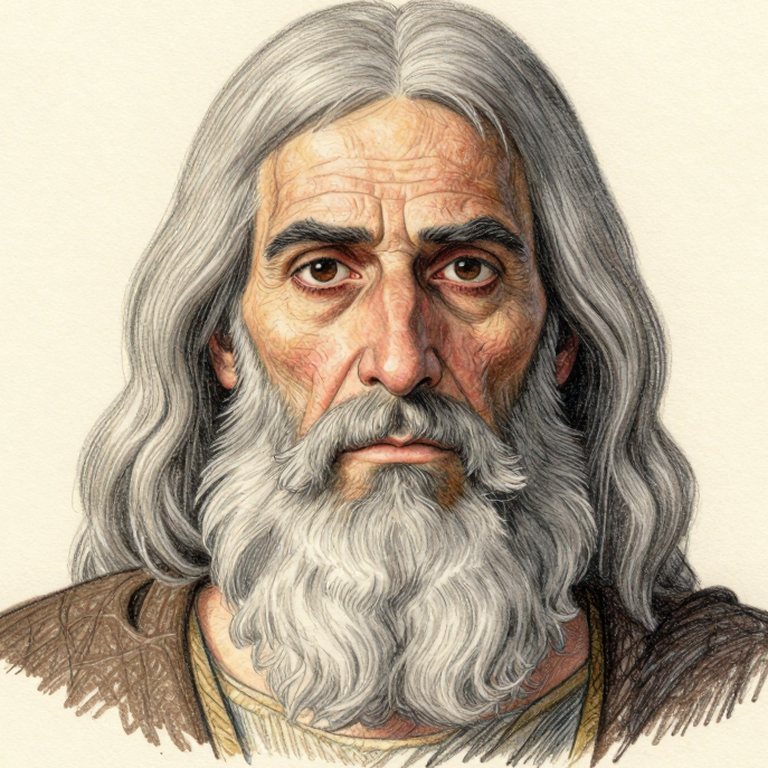
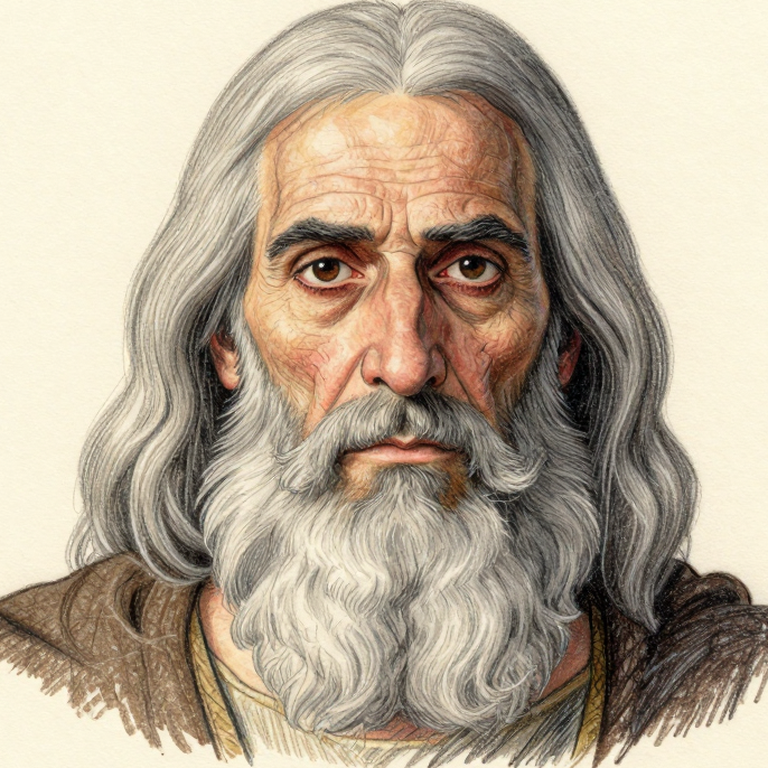
feat(canon): task 446 사람 판정 반영 — saul-elder 정본 s42 · saul-old 정본 s23(v4) · spec.cast-canon-face 38/38 회복
- 기계 고름(s11·s303)과 사람 답이 2/2 갈림 — 노트에 기록
- 재검: 전 규칙 통과 명세 3→5/38 · 승인 그림 3/15(기브아 창 s7 명세 바뀜 낡음 그대로)

Claude-Session: https://claude.ai/code/session_012hBPKFwr9raj2757bWq1Lv

Changed region(s): [[0.0, 0.0, 1.0, 1.0], [0.4062, 0.0, 0.4375, 0.0312]]

diff --git a/scripts/canon/notes/RECHECK.md b/scripts/canon/notes/RECHECK.md
@@ -25,7 +25,7 @@
 | `spec.cast-age-band` | spec | all | 38 | 0 | 0 | 100% |
 | `spec.cast-age-word` | spec | all | 38 | 0 | 0 | 100% |
 | `spec.cast-headwear` | spec | all | 38 | 0 | 0 | 100% |
-| `spec.cast-canon-face` | spec | all | 32 | 6 | 0 | 84% |
+| `spec.cast-canon-face` | spec | all | 38 | 0 | 0 | 100% |
 | `spec.lexicon-link` | spec | all | 16 | 3 | 19 | 84% |
 | `derive.no-hand-prompt` | derive | all | 38 | 0 | 0 | 100% |
 | `derive.no-bare-head` | derive | all | 38 | 0 | 0 | 100% |
@@ -64,15 +64,15 @@
 
 폐기 규칙(재검·통과율에서 뺌): `derive.clip-77-tokens` — 2026-10-22 사람 결정 — SDXL 단계별 경로 전용, 지금 생성 경로는 derive.512-tokens가 잼 · `generate.pose-throw-geometry` — 2026-10-23 d3 — 한 장(c14 s5) 근거로 만든 규칙: d1 「달리는 자세」·d2 「늘어진 팔」로 반증, c10 뼈대가 묶음 기록상 가장 좋음(던진 몸짓 3/8). 결함을 규칙으로 옮기기 전에 같은 조건에서 맞게 나온 적이 있는지 기록부터 볼 것 · `generate.pose-only-control` — 2026-10-23 g2e — 진단은 맞음(뼈대만이면 몸짓이 살아 다윗 숙임·사울 기욺)이나 맞바꿈: 몸 덩어리·벽 자리·수금 모양을 잃고 액자(g1e 다수결 틀림 6 · g2e 15 vs 섞은 f6e3 2). 깊이+뼈대 섞기 유지, make_pose_only·duck_low는 남김 · `generate.spear-two-thirds` — 2026-10-23 m5 — generate.flight-position(명세 칸 guide.flight + 사전 크기)로 일반화(사람 「지적한거 그대로 일회성으로 쓰지말고 규칙화」)
 
-**전 규칙 통과 명세 3/38** · 칸 통과 1468/1599 (92%)
+**전 규칙 통과 명세 5/38** · 칸 통과 1474/1599 (92%)
 
 | 명세 | required-fields | whole-fields | verse-elements | no-compromise-words | scene-all-verses | cast-card-v2 | cast-age-band | cast-age-word | cast-headwear | cast-canon-face | lexicon-link | no-hand-prompt | no-bare-head | prop-in-prompt | 512-tokens | stage-from-scripture | quote-matches-verse | action-place-on-figure | thrown-guide | guide-backdrop | guide-body-build | dodge-clear | guide-costume-legs | youth-noun | pose-skeleton | figure-scale | no-second-point | youth-height | height-ratio | seated-height | pose-hold | split-control | prop-size-relative | flight-position | flight-height | empty-hand-open | wall-material | no-inflating-build | prop-size-coverage | held-hold | crowd-stage | eye-level-perspective | solo-off-center | inset | plate-cast-token |
 |---|---|---|---|---|---|---|---|---|---|---|---|---|---|---|---|---|---|---|---|---|---|---|---|---|---|---|---|---|---|---|---|---|---|---|---|---|---|---|---|---|---|---|---|---|---|
 | david-adullam-cave | ✅ | ✗ | ✗ | ✅ | ✗ | ✅ | ✅ | ✅ | ✅ | ✅ | – | ✅ | ✅ | ✅ | ✅ | ✗ | ✅ | – | ✅ | ✅ | ✅ | ✅ | ✅ | ✅ | ✅ | – | ✅ | ✅ | ✅ | ✅ | ✅ | ✅ | ✅ | ✅ | ✅ | ✅ | ✅ | ✅ | ✅ | ✅ | ✗ | – | ✅ | ✅ | ✅ |
 | david-ark-jerusalem | ✅ | ✗ | ✅ | ✅ | ✗ | ✅ | ✅ | ✅ | ✅ | ✅ | ✗ | ✅ | ✅ | ✅ | ✅ | ✗ | ✅ | ✅ | ✅ | ✅ | ✅ | ✅ | ✅ | ✅ | ✅ | – | ✅ | ✅ | ✅ | ✅ | ✅ | ✅ | ✅ | ✅ | ✅ | ✅ | ✅ | ✅ | ✅ | ✅ | ✅ | – | ✅ | ✅ | ✅ |
-| david-en-gedi-saul | ✅ | ✅ | ✗ | ✅ | ✗ | ✅ | ✅ | ✅ | ✅ | ✗ | – | ✅ | ✅ | ✅ | ✅ | ✗ | ✅ | – | ✅ | ✅ | ✅ | ✅ | ✅ | ✅ | ✅ | – | ✅ | ✅ | – | ✅ | ✅ | ✅ | ✅ | ✅ | ✅ | ✅ | ✅ | ✗ | ✅ | ✅ | ✅ | – | ✅ | ✅ | ✅ |
+| david-en-gedi-saul | ✅ | ✅ | ✗ | ✅ | ✗ | ✅ | ✅ | ✅ | ✅ | ✅ | – | ✅ | ✅ | ✅ | ✅ | ✗ | ✅ | – | ✅ | ✅ | ✅ | ✅ | ✅ | ✅ | ✅ | – | ✅ | ✅ | – | ✅ | ✅ | ✅ | ✅ | ✅ | ✅ | ✅ | ✅ | ✗ | ✅ | ✅ | ✅ | – | ✅ | ✅ | ✅ |
 | david-gath-achish | ✅ | ✅ | ✅ | ✅ | ✗ | ✅ | ✅ | ✅ | ✅ | ✅ | ✅ | ✅ | ✅ | ✅ | ✅ | ✗ | ✅ | ✅ | ✅ | ✅ | ✅ | ✅ | ✅ | ✅ | ✅ | – | ✅ | ✅ | – | ✅ | ✅ | ✅ | ✅ | ✅ | ✅ | ✅ | ✅ | ✅ | ✅ | ✅ | ✅ | ✅ | ✅ | ✅ | ✅ |
-| david-gibeah-harp | ✅ | ✅ | ✅ | ✅ | ✅ | ✅ | ✅ | ✅ | ✅ | ✗ | ✅ | ✅ | ✅ | ✅ | ✅ | ✅ | ✅ | ✅ | ✅ | ✅ | ✅ | ✅ | ✅ | ✅ | ✅ | ✅ | ✅ | ✅ | ✅ | ✅ | ✅ | ✅ | ✅ | ✅ | ✅ | ✅ | ✅ | ✅ | ✅ | ✅ | ✅ | ✅ | ✅ | ✅ | ✅ |
+| david-gibeah-harp | ✅ | ✅ | ✅ | ✅ | ✅ | ✅ | ✅ | ✅ | ✅ | ✅ | ✅ | ✅ | ✅ | ✅ | ✅ | ✅ | ✅ | ✅ | ✅ | ✅ | ✅ | ✅ | ✅ | ✅ | ✅ | ✅ | ✅ | ✅ | ✅ | ✅ | ✅ | ✅ | ✅ | ✅ | ✅ | ✅ | ✅ | ✅ | ✅ | ✅ | ✅ | ✅ | ✅ | ✅ | ✅ |
 | david-gibeon-battle | ✅ | ✗ | ✅ | ✅ | ✗ | ✅ | ✅ | ✅ | ✅ | ✅ | ✅ | ✅ | ✅ | ✅ | ✅ | ✗ | ✅ | ✅ | ✅ | ✅ | ✅ | ✅ | ✅ | ✅ | ✅ | – | ✅ | ✅ | – | ✅ | ✅ | ✅ | ✅ | ✅ | ✅ | ✅ | ✅ | ✅ | ✅ | ✅ | ✅ | – | ✅ | ✅ | ✅ |
 | david-goliath-gath | ✅ | ✅ | ✗ | ✅ | ✗ | ✅ | ✅ | ✅ | ✅ | ✅ | – | ✅ | ✅ | ✗ | ✅ | ✗ | ✅ | – | ✅ | ✅ | ✅ | ✅ | ✅ | ✅ | ✅ | – | ✅ | – | – | ✅ | ✅ | ✅ | ✅ | ✅ | ✅ | ✅ | ✅ | ✅ | ✅ | ✅ | ✅ | – | ✅ | ✅ | ✅ |
 | david-hebron-king-judah | ✅ | ✗ | ✅ | ✅ | ✗ | ✅ | ✅ | ✅ | ✅ | ✅ | ✅ | ✅ | ✅ | ✅ | ✅ | ✗ | ✅ | ✅ | ✅ | ✅ | ✅ | ✅ | ✅ | ✅ | ✅ | – | ✅ | ✅ | ✅ | ✅ | ✅ | ✅ | ✅ | ✅ | ✅ | ✅ | ✅ | ✅ | ✅ | ✅ | ✅ | – | ✅ | ✅ | ✅ |
@@ -85,15 +85,15 @@
 | david-ziklag-base | ✅ | ✗ | ✅ | ✅ | ✗ | ✅ | ✅ | ✅ | ✅ | ✅ | ✅ | ✅ | ✅ | ✅ | ✅ | ✗ | ✅ | ✅ | ✅ | ✅ | ✅ | ✅ | ✅ | ✅ | ✅ | – | ✅ | ✅ | – | ✅ | ✅ | ✅ | ✅ | ✅ | ✅ | ✅ | ✅ | ✅ | ✅ | ✅ | ✅ | ✅ | ✅ | ✅ | ✅ |
 | samuel-bethlehem-david-anointing | ✅ | ✗ | ✅ | ✅ | ✗ | ✅ | ✅ | ✅ | ✅ | ✅ | ✗ | ✅ | ✅ | ✅ | ✅ | ✗ | ✅ | ✅ | ✅ | ✅ | ✅ | ✅ | ✅ | ✅ | ✅ | – | ✅ | – | – | ✅ | ✅ | ✅ | ✗ | ✅ | ✅ | ✅ | ✅ | ✅ | ✅ | ✅ | ✅ | – | ✅ | ✅ | ✅ |
 | samuel-ramah-death | ✅ | ✅ | ✗ | ✅ | ✗ | ✅ | ✅ | ✅ | ✅ | ✅ | – | ✅ | ✅ | ✅ | ✅ | ✗ | ✅ | – | ✅ | ✅ | ✅ | ✅ | ✅ | ✅ | ✅ | – | ✅ | ✅ | ✅ | ✅ | ✅ | ✅ | ✅ | ✅ | ✅ | ✅ | ✅ | ✅ | ✅ | ✅ | ✅ | – | ✅ | ✅ | ✅ |
-| saul-endor-medium | ✅ | ✗ | ✅ | ✅ | ✗ | ✅ | ✅ | ✅ | ✅ | ✗ | ✅ | ✅ | ✅ | ✅ | ✅ | ✗ | ✅ | ✅ | ✅ | ✅ | ✅ | ✅ | ✅ | ✅ | ✅ | – | ✅ | ✅ | – | ✅ | ✅ | ✅ | ✅ | ✅ | ✅ | ✅ | ✅ | ✅ | ✅ | ✅ | ✅ | – | ✅ | ✅ | ✅ |
-| saul-gibeah-spear | ✅ | ✅ | ✅ | ✅ | ✅ | ✅ | ✅ | ✅ | ✅ | ✗ | ✅ | ✅ | ✅ | ✅ | ✅ | ✅ | ✅ | ✅ | ✅ | ✅ | ✅ | ✅ | ✅ | ✅ | ✅ | ✅ | ✅ | ✅ | ✅ | ✅ | ✅ | ✅ | ✅ | ✅ | ✅ | ✅ | ✅ | ✅ | ✅ | ✅ | ✅ | ✅ | ✅ | ✅ | ✅ |
-| saul-gilboa-death | ✅ | ✗ | ✅ | ✅ | ✗ | ✅ | ✅ | ✅ | ✅ | ✗ | ✅ | ✅ | ✅ | ✅ | ✅ | ✗ | ✅ | ✅ | ✅ | ✅ | ✅ | ✅ | ✅ | ✅ | ✅ | – | ✅ | ✅ | – | ✅ | ✅ | ✅ | ✅ | ✅ | ✅ | ✅ | ✅ | ✅ | ✅ | ✅ | ✅ | – | ✅ | ✅ | ✅ |
+| saul-endor-medium | ✅ | ✗ | ✅ | ✅ | ✗ | ✅ | ✅ | ✅ | ✅ | ✅ | ✅ | ✅ | ✅ | ✅ | ✅ | ✗ | ✅ | ✅ | ✅ | ✅ | ✅ | ✅ | ✅ | ✅ | ✅ | – | ✅ | ✅ | – | ✅ | ✅ | ✅ | ✅ | ✅ | ✅ | ✅ | ✅ | ✅ | ✅ | ✅ | ✅ | – | ✅ | ✅ | ✅ |
+| saul-gibeah-spear | ✅ | ✅ | ✅ | ✅ | ✅ | ✅ | ✅ | ✅ | ✅ | ✅ | ✅ | ✅ | ✅ | ✅ | ✅ | ✅ | ✅ | ✅ | ✅ | ✅ | ✅ | ✅ | ✅ | ✅ | ✅ | ✅ | ✅ | ✅ | ✅ | ✅ | ✅ | ✅ | ✅ | ✅ | ✅ | ✅ | ✅ | ✅ | ✅ | ✅ | ✅ | ✅ | ✅ | ✅ | ✅ |
+| saul-gilboa-death | ✅ | ✗ | ✅ | ✅ | ✗ | ✅ | ✅ | ✅ | ✅ | ✅ | ✅ | ✅ | ✅ | ✅ | ✅ | ✗ | ✅ | ✅ | ✅ | ✅ | ✅ | ✅ | ✅ | ✅ | ✅ | – | ✅ | ✅ | – | ✅ | ✅ | ✅ | ✅ | ✅ | ✅ | ✅ | ✅ | ✅ | ✅ | ✅ | ✅ | – | ✅ | ✅ | ✅ |
 | saul-gilgal-amalek | ✅ | ✅ | ✗ | ✅ | ✗ | ✅ | ✅ | ✅ | ✅ | ✅ | – | ✅ | ✅ | ✅ | ✅ | ✗ | ✅ | – | ✅ | ✅ | ✅ | ✅ | ✅ | ✅ | ✅ | – | ✅ | ✅ | – | ✅ | ✅ | ✅ | ✅ | ✅ | ✅ | ✅ | ✅ | ✗ | ✅ | ✅ | ✅ | ✅ | ✅ | ✅ | ✅ |
 | saul-gilgal-coronation | ✅ | ✅ | ✗ | ✅ | ✗ | ✅ | ✅ | ✅ | ✅ | ✅ | – | ✅ | ✅ | ✅ | ✅ | ✗ | ✅ | – | ✅ | ✅ | ✅ | ✅ | ✅ | ✅ | ✅ | – | ✅ | ✅ | – | ✅ | ✅ | ✅ | ✅ | ✅ | ✅ | ✅ | ✅ | ✗ | ✅ | ✅ | ✅ | – | ✅ | ✅ | ✅ |
 | saul-jabesh-rescue | ✅ | ✅ | ✗ | ✅ | ✗ | ✅ | ✅ | ✅ | ✅ | ✅ | – | ✅ | ✅ | ✅ | ✅ | ✗ | ✅ | – | ✅ | ✅ | ✅ | ✅ | ✅ | ✅ | ✅ | – | ✅ | ✅ | ✅ | ✅ | ✅ | ✅ | ✅ | ✅ | ✅ | ✅ | ✅ | ✗ | ✅ | ✅ | ✅ | – | ✅ | ✅ | ✅ |
 | saul-michmash-battle | ✅ | ✗ | ✗ | ✅ | ✗ | ✅ | ✅ | ✅ | ✅ | ✅ | – | ✅ | ✅ | ✅ | ✅ | ✗ | ✅ | – | ✅ | ✅ | ✅ | ✅ | ✅ | ✅ | ✅ | – | ✅ | ✅ | – | ✅ | ✅ | ✅ | ✅ | ✅ | ✅ | ✅ | ✅ | ✗ | ✅ | ✅ | ✅ | – | ✅ | ✅ | ✅ |
 | saul-mizpah-chosen | ✅ | ✗ | ✗ | ✅ | ✗ | ✅ | ✅ | ✅ | ✅ | ✅ | – | ✅ | ✅ | ✅ | ✅ | ✗ | ✅ | – | ✅ | ✅ | ✅ | ✅ | ✅ | ✅ | ✅ | – | ✅ | ✅ | – | ✅ | ✅ | ✅ | ✅ | ✅ | ✅ | ✅ | ✅ | ✗ | ✅ | ✅ | ✅ | – | ✅ | ✅ | ✅ |
-| saul-nob-massacre | ✅ | ✅ | ✗ | ✅ | ✗ | ✅ | ✅ | ✅ | ✅ | ✗ | – | ✅ | ✅ | ✅ | ✅ | ✗ | ✅ | – | ✅ | ✅ | ✅ | ✅ | ✅ | ✅ | ✅ | – | ✅ | ✅ | – | ✅ | ✅ | ✅ | ✅ | ✅ | ✅ | ✅ | ✅ | ✅ | ✅ | ✅ | ✅ | ✅ | ✅ | ✅ | ✅ |
+| saul-nob-massacre | ✅ | ✅ | ✗ | ✅ | ✗ | ✅ | ✅ | ✅ | ✅ | ✅ | – | ✅ | ✅ | ✅ | ✅ | ✗ | ✅ | – | ✅ | ✅ | ✅ | ✅ | ✅ | ✅ | ✅ | – | ✅ | ✅ | – | ✅ | ✅ | ✅ | ✅ | ✅ | ✅ | ✅ | ✅ | ✅ | ✅ | ✅ | ✅ | ✅ | ✅ | ✅ | ✅ |
 | solomon-ezion-geber-fleet | ✅ | ✗ | ✗ | ✅ | ✗ | ✅ | ✅ | ✅ | ✅ | ✅ | – | ✅ | ✅ | ✗ | ✅ | ✗ | ✅ | – | ✅ | ✅ | ✅ | ✅ | ✅ | ✅ | ✅ | – | ✅ | ✅ | ✅ | ✅ | ✅ | ✅ | ✅ | ✅ | ✅ | ✅ | ✅ | ✅ | ✅ | ✅ | ✅ | ✅ | ✅ | ✅ | ✅ |
 | solomon-gibeon-dream | ✅ | ✗ | ✗ | ✅ | ✗ | ✅ | ✅ | ✅ | ✅ | ✅ | – | ✅ | ✅ | ✗ | ✅ | ✗ | ✅ | – | ✅ | ✅ | ✅ | ✅ | ✅ | ✅ | ✅ | – | ✅ | ✅ | ✅ | ✅ | ✅ | ✅ | ✅ | ✅ | ✅ | ✅ | ✅ | ✅ | ✅ | ✅ | ✅ | ✅ | ✅ | ✅ | ✅ |
 | solomon-gihon-anointing | ✅ | ✗ | ✗ | ✅ | ✗ | ✅ | ✅ | ✅ | ✅ | ✅ | – | ✅ | ✅ | ✅ | ✅ | ✗ | ✅ | – | ✅ | ✅ | ✅ | ✅ | ✅ | ✅ | ✅ | – | ✅ | ✅ | – | ✅ | ✅ | ✅ | ✅ | ✅ | ✅ | ✅ | ✅ | ✅ | ✅ | ✅ | ✅ | – | ✅ | ✅ | ✅ |

diff --git a/scripts/canon/notes/SAUL-LIFE-STAGE.md b/scripts/canon/notes/SAUL-LIFE-STAGE.md
@@ -87,3 +87,10 @@ HF_HUB_OFFLINE=1 $P recheck.py specs && HF_HUB_OFFLINE=1 $P recheck.py images
 2. **정본 전이**(참조 어댑터 PuLID·InfiniteYou 등 — fu-7fb5a2c109fb)는 이 작업의 `saul-elder` 정본으로.
 3. **카드 머리·수염 낱말이 정본 그림에 덜 먹음** — `saul-old` 「thin gray hair」인데 8장 모두 숱 많은 장발 · `saul-elder` 「greying」·「close-trimmed」인데 거의 흰머리·풍성한 수염. 사람 답이 「모두 아님」이면 이것부터(같은 시드 한 장 규칙 반복).
 4. `apply_canon_faces.py`의 `keep`은 지문(`prompt_sha`)을 안 고쳐 카드가 바뀐 뒤 「그대로 둠」을 골라도 규칙이 계속 걸림 — keep을 「지금 카드에 맞음」으로 받을지 정하기.
+
+## 사람 답 (2026-10-28)
+
+`{"saul-elder":"s42","saul-old":"s23"}` — saul-elder는 기계 고름(s11)이 아니라 **s42**(Claude 눈 확인에서 눈썹이 짙어 saul과 가장 가깝다고 본 장), saul-old는 v4 새 후보 **s23**(기계 점수 1위 9.25 · 기계 고름 s303 아님). 옛 saul-old 정본(v3 s23)은 `frozen/retired-v2/saul-old.png`.
+
+반영 뒤 재검: `spec.cast-canon-face` 32 → 38/38 · 전 규칙 통과 명세 3 → 5/38(작업 전과 같음) · 칸 통과 1468 → 1474/1599(작업 전 1473보다 1칸 많음 — 체격 문구) · 승인 그림 모두 통과 3/15(기브아 창 s7·놉은 명세 바뀜 낡음 그대로 — 다시 그릴 때 새 정본으로).
+- 기계 고름과 사람 답이 둘 다 갈림(2/2) — 같은 사람 판정 `SAME`의 고름은 아직 사람 대신 쓸 수 없음(이유 글만 참고).
